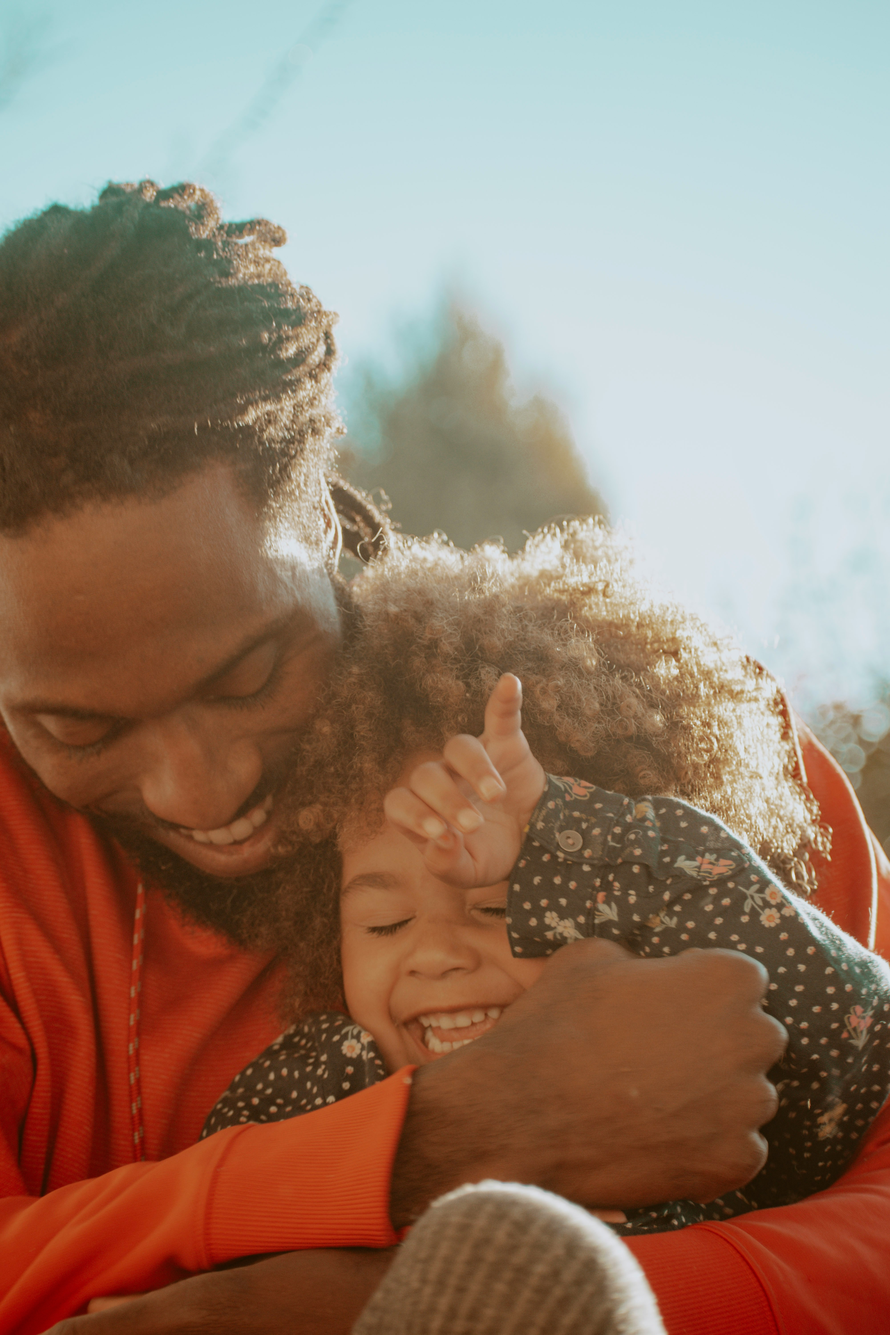
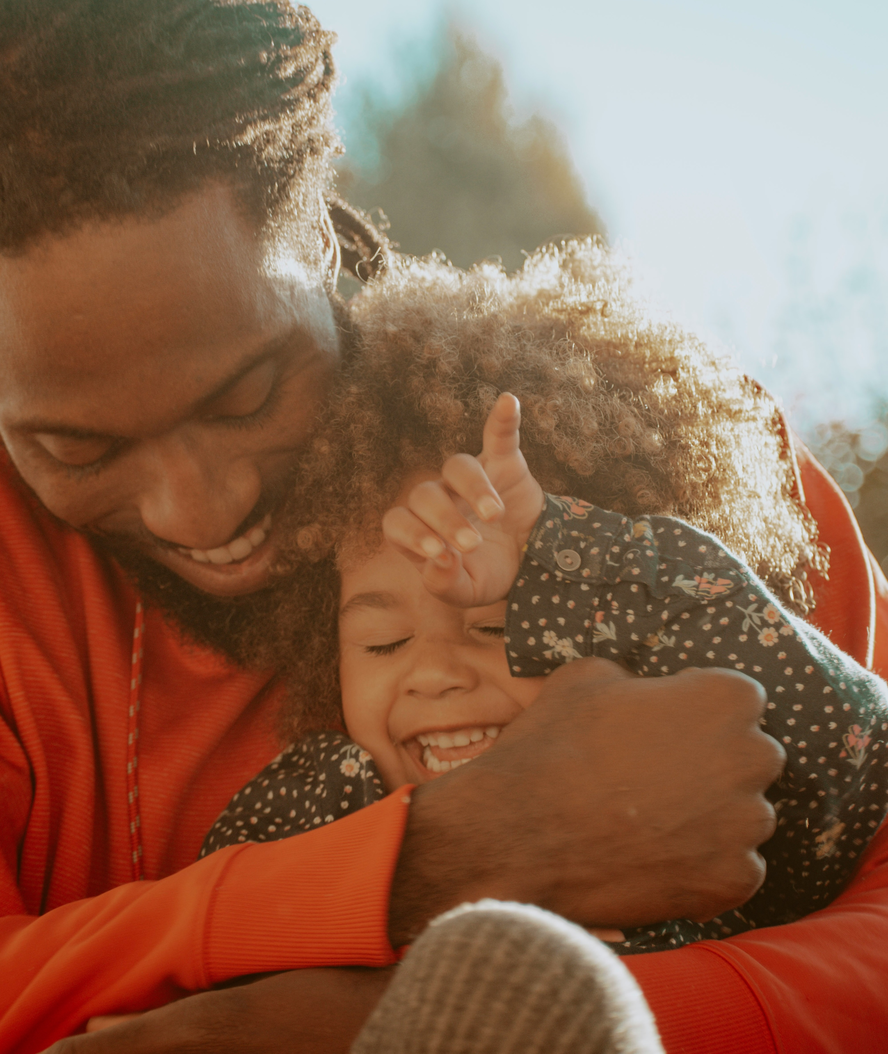
[feat] 메인페이지 메인사진 추가

diff --git a/src/main/resources/static/assets/css/mainstyle.css b/src/main/resources/static/assets/css/mainstyle.css
@@ -13,7 +13,8 @@ body {
 
 /* Hero Section */
 .hero {
-    background: linear-gradient(rgba(0, 0, 0, 0.5), rgba(0, 0, 0, 0.5)), url('/assets/img/index/main.jpg');
+    background: linear-gradient(rgba(0, 0, 0, 0.5), rgba(0, 0, 0, 0.5));
+    background-image: url('/assets/img/index/back4.jpg');
     background-size: cover;
     background-position: center;
     height: 80vh;
